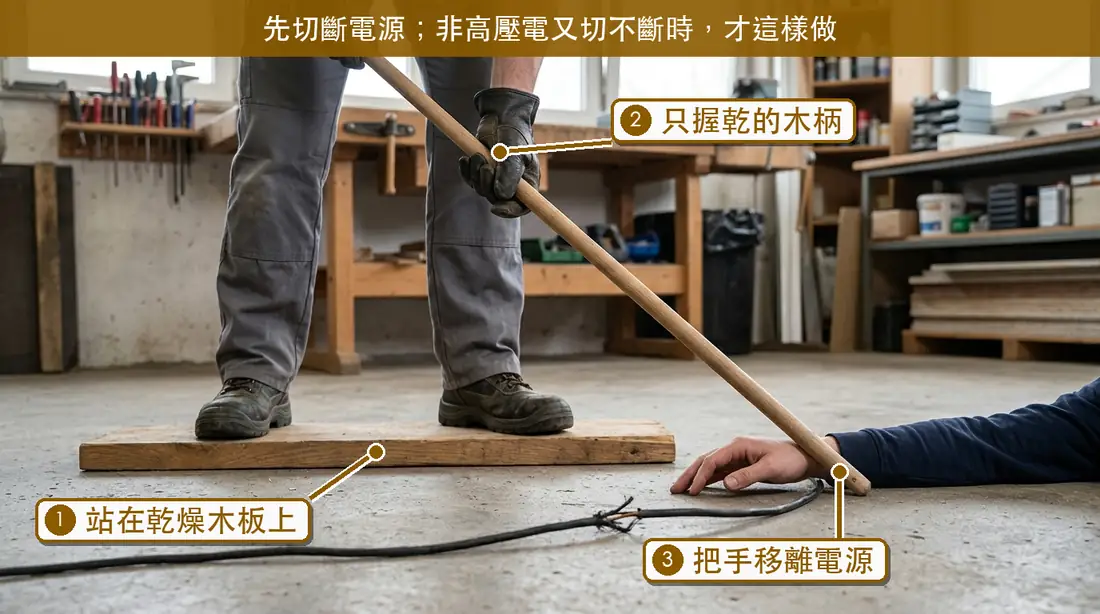
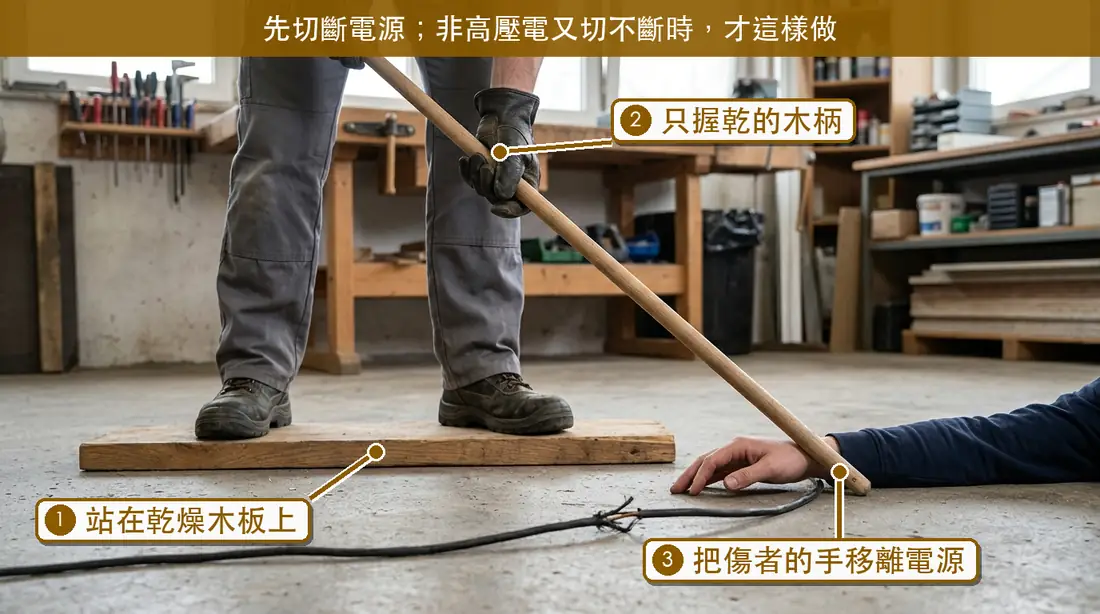
觸電圖標註改為「把傷者的手移離電源」，避免「把手」被讀成握把
- 重新合成 shock_broom.webp 並 build
- insert_figures.py 移除舊圖塊時一併吃掉前導空行，重複執行不再累積空行

Changed region(s): [[0.6491, 0.8664, 0.8964, 0.9593]]

diff --git a/tools/img/compose.py b/tools/img/compose.py
@@ -146,7 +146,7 @@ def f_shock_broom(im, d):
     band(im, "先切斷電源；非高壓電又切不斷時，才這樣做", AMBER, where="top")
     callout(d, 1, (60, 650), (470, 565), "站在乾燥木板上", AMBER)
     callout(d, 2, (780, 150), (625, 190), "只握乾的木柄", AMBER)
-    callout(d, 3, (820, 700), (1050, 590), "把手移離電源", AMBER)
+    callout(d, 3, (820, 700), (1050, 590), "把傷者的手移離電源", AMBER)
 
 
 def f_cpr_posture(im, d):

diff --git a/tools/img/insert_figures.py b/tools/img/insert_figures.py
@@ -59,7 +59,7 @@ F = {
 }
 
 t = open(SRC, encoding="utf-8").read()
-t = re.sub(r"<!--fig:[a-z_]+-->.*?<!--/fig:[a-z_]+-->\n", "", t, flags=re.S)
+t = re.sub(r"\n*<!--fig:[a-z_]+-->.*?<!--/fig:[a-z_]+-->\n", "", t, flags=re.S)
 
 def after(anchor, block):
     global t

diff --git a/docs/IMAGES.md b/docs/IMAGES.md
@@ -16,7 +16,7 @@
 | 4-2 | 燙傷：沖（沖脫泡蓋送） | AI＋標註 | 臺北市消防局 燒燙傷處置 | 1 | 通過 |
 | 4-3 | 斷肢隔水保冰 | AI＋標註 | 消防署教科書 頁 287–288 | 1 | 通過（放大確認冰塊只在外袋） |
 | 4-4 | 沖洗眼睛方向（內→外眼角） | SVG | 消防署教科書 頁 183 | 0 | 通過（方向由程式決定） |
-| 4-5 | 觸電：乾燥絕緣物移開 | AI＋標註 | 消防署教科書 頁 370 | 2 | 第 1 張：掃把頭推的是電線、不是把傷者的手移離 → 重生；第 2 張通過 |
+| 4-5 | 觸電：乾燥絕緣物移開 | AI＋標註 | 消防署教科書 頁 370 | 2 | 第 1 張：掃把頭推的是電線、不是把傷者的手移離 → 重生；第 2 張通過。主控驗收：標註「把手移離電源」會被讀成握把，改為「把傷者的手移離電源」 |
 | 4-6 | 叫叫壓電與分工 | SVG | 衛福部 CPR 摘要表 2021；臺北市消防局 CPR+AED；衛福部公共場所民眾 CPR+AED 教材 PDF 第 14 頁 | 0 | 通過 |
 | 4-7 | CPR 按壓位置與手勢 | SVG | 衛福部 CPR 摘要表 2021；公共場所民眾 CPR+AED 教材 PDF 第 18–19 頁；消防署教科書 頁 117 | AI 3 次全不合格 | AI 三張下方手指都平貼胸部（第 3 張還壓在上胸、手臂斜），改程式繪製 |
 | 4-8 | CPR 姿勢 | AI＋標註 | 同上＋教材 PDF 第 17 頁 | 2 | 第 1 張跪在假人頭頂方向（不是身側）、肩不在手正上方、露出下巴 → 重生；第 2 張通過（備註：下方手指仍貼胸，圖上不標示手勢，手勢以圖 4-7 為準） |
